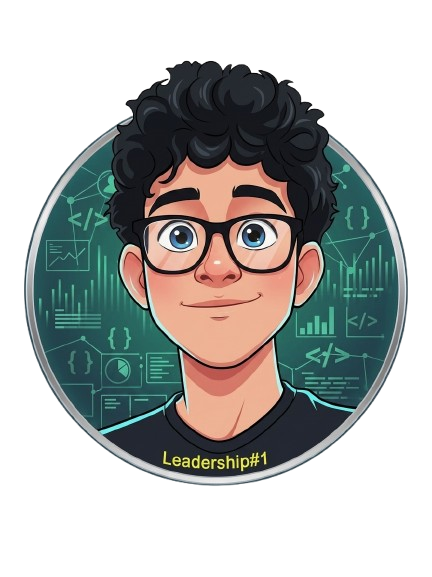
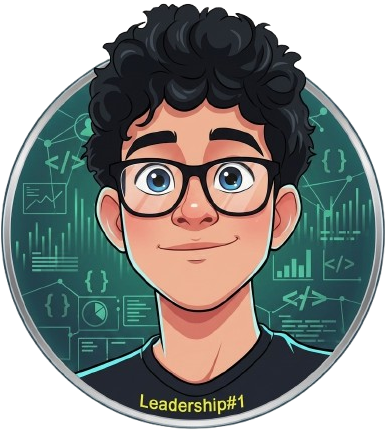
update link

diff --git a/app/(public)/page.tsx b/app/(public)/page.tsx
@@ -23,9 +23,9 @@ interface Post {
 }
 
 const SOCIAL_LINKS = [
-  { href: "https://github.com/yourusername",   label: "GitHub",   icon: Github   },
-  { href: "https://twitter.com/yourhandle",    label: "Twitter",  icon: Twitter  },
-  { href: "https://linkedin.com/in/yourname",  label: "LinkedIn", icon: Linkedin },
+  { href: "https://github.com/windasan",   label: "GitHub",   icon: Github   },
+  { href: "https://twitter.com/",    label: "Twitter",  icon: Twitter  },
+  { href: "https://linkedin.com/in/",  label: "LinkedIn", icon: Linkedin },
 ] as const;
 
 // ── Data Fetching dari Supabase ───────────────────────────────────────────────
@@ -77,8 +77,7 @@ export default async function HomePage() {
             </h1>
 
             <p className="mt-4 max-w-xl text-lg text-muted leading-relaxed">
-              Full-stack developer crafting thoughtful, performant web experiences.
-              Currently building at{" "}
+             Dedicated to crafting unique, high-performance web applications. I focus on utility and experience—here is a prime example of my work. {" "}
               <a
                 href="https://cyborged.web.id"
                 className="text-primary underline decoration-border underline-offset-4 hover:decoration-primary transition-all"
@@ -123,22 +122,40 @@ export default async function HomePage() {
           </div>
 
           {/* Kolom Foto (Pop-out Avatar) */}
-         <div className="relative w-40 h-40 sm:w-48 sm:h-48 shrink-0 mb-4 sm:mb-0 self-start sm:self-center">
-          {/* 1. Lingkaran Background (Tetap sama) */}
-          <div className="absolute bottom-0 w-full h-full rounded-full bg-gradient-to-tr from-blue-500/20 to-transparent border border-black/10 dark:border-white/10" />
-          
-          {/* 2. Foto Profil (Diperbesar) */}
-          <Image
-            src="/image/profil_pic.png" 
-            alt="Profile Photo"
-            width={400} 
-            height={400}
-            priority
-            className="absolute bottom-0 left-1/2 w-[130%] max-w-none -translate-x-1/2 object-contain drop-shadow-2xl hover:scale-105 transition-transform duration-500"
-            // Tinggi dibuat 140% agar kepala melewati batas atas lingkaran
-            style={{ height: "145%" }} 
-          />
-        </div>
+    <div className="relative w-40 h-40 sm:w-48 sm:h-48 shrink-0 mb-4 sm:mb-0 self-start sm:self-center mt-8 sm:mt-0">
+  {/* 1. Lingkaran Background (Sama) */}
+  <div className="absolute bottom-1 w-full h-full rounded-full bg-gradient-to-tr from-blue-500/20 to-transparent border border-black/10 dark:border-white/10" />
+
+  {/* --- Wadah untuk Gambar (Tanpa Shadow) --- */}
+  <div
+    className={[
+      "absolute bottom-0 left-1/2 -translate-x-1/2 max-w-none object-contain",
+      "hover:scale-105 transition-transform duration-500", // Hover effect tetap di sini
+      // Responsive Scaling (Sama)
+      "w-[115%] h-[120%]",
+      "sm:w-[130%] sm:h-[145%]"
+    ].join(" ")}
+  >
+    {/* 2. Foto Profil (Image element) */}
+   <Image
+      src="/image/profil_pic.png"
+      alt="Profile Photo"
+      width={400}
+      height={400}
+      priority
+      className={[
+        "absolute inset-0 w-full h-full object-contain",
+        
+        // Pilihan 1: Pakai bawaan Tailwind (Lebih praktis, bayangan cukup besar dan tebal)
+        // "drop-shadow-2xl", 
+
+        // Pilihan 2: Jika masih kurang pas, matikan baris di atas, 
+        // dan nyalakan (uncomment) baris di bawah ini untuk custom yang lebih tebal:
+        "drop-shadow-[4px_8px_8px_rgba(0,0,0,0.6)]", 
+      ].join(" ")}
+    />
+  </div>
+</div>
 
         </div>
       </section>

diff --git a/components/Navbar.tsx b/components/Navbar.tsx
@@ -95,10 +95,11 @@ export function Navbar() {
         >
 
           {/* ── Logo / Name ───────────────────────────────────────────── */}
-          <Link
+         <Link
             href="/"
             className={[
-              "group flex items-center gap-2",
+              // 1. Ubah gap-2 menjadi gap-0 (atau hapus class gap sepenuhnya)
+              "group flex items-center gap-0.5", 
               "text-sm font-semibold tracking-tight text-primary",
               "transition-opacity duration-150 hover:opacity-70",
               "focus-visible:outline-none focus-visible:ring-2 focus-visible:ring-accent",
@@ -109,15 +110,18 @@ export function Navbar() {
             {/* Monogram mark */}
             <span
               className={[
+                // 2. Jika kotaknya dirasa mengganggu kedempetan teks, 
+                // kamu bisa mengatur padding atau merubah tampilan kotak ini.
+                // Tapi untuk sekarang, kita biarkan saja format kotaknya.
                 "flex h-6 w-6 items-center justify-center rounded-md",
-                "bg-primary text-surface text-xs font-bold",
+                "bg-primary text-surface text-s font-bold",
                 "transition-transform duration-200 group-hover:scale-95",
               ].join(" ")}
               aria-hidden
             >
-              Y
+              Cy
             </span>
-            <span className="hidden sm:inline">Your Name</span>
+            <span className="hidden sm:inline">borged</span>
           </Link>
 
           {/* ── Desktop nav links ─────────────────────────────────────── */}

diff --git a/app/(public)/contact/page.tsx b/app/(public)/contact/page.tsx
@@ -21,27 +21,27 @@ export const metadata: Metadata = {
 
 const SOCIAL_LINKS = [
   {
-    href:  "mailto:you@example.com",
+    href:  "mailto:cyborged30s@gmail.com",
     label: "Email",
-    handle:"you@example.com",
+    handle:"cyborged30s@gmail.com",
     icon:  Mail,
   },
   {
-    href:  "https://github.com/yourusername",
+    href:  "https://github.com/windasan",
     label: "GitHub",
-    handle:"@yourusername",
+    handle:"@windasan",
     icon:  Github,
   },
   {
-    href:  "https://twitter.com/yourhandle",
+    href:  "https://twitter.com/windasan",
     label: "Twitter / X",
-    handle:"@yourhandle",
+    handle:"@windasan",
     icon:  Twitter,
   },
   {
-    href:  "https://linkedin.com/in/yourname",
+    href:  "https://linkedin.com/in/cyborged",
     label: "LinkedIn",
-    handle:"linkedin.com/in/yourname",
+    handle:"linkedin.com/in/cyborged",
     icon:  Linkedin,
   },
 ] as const;
